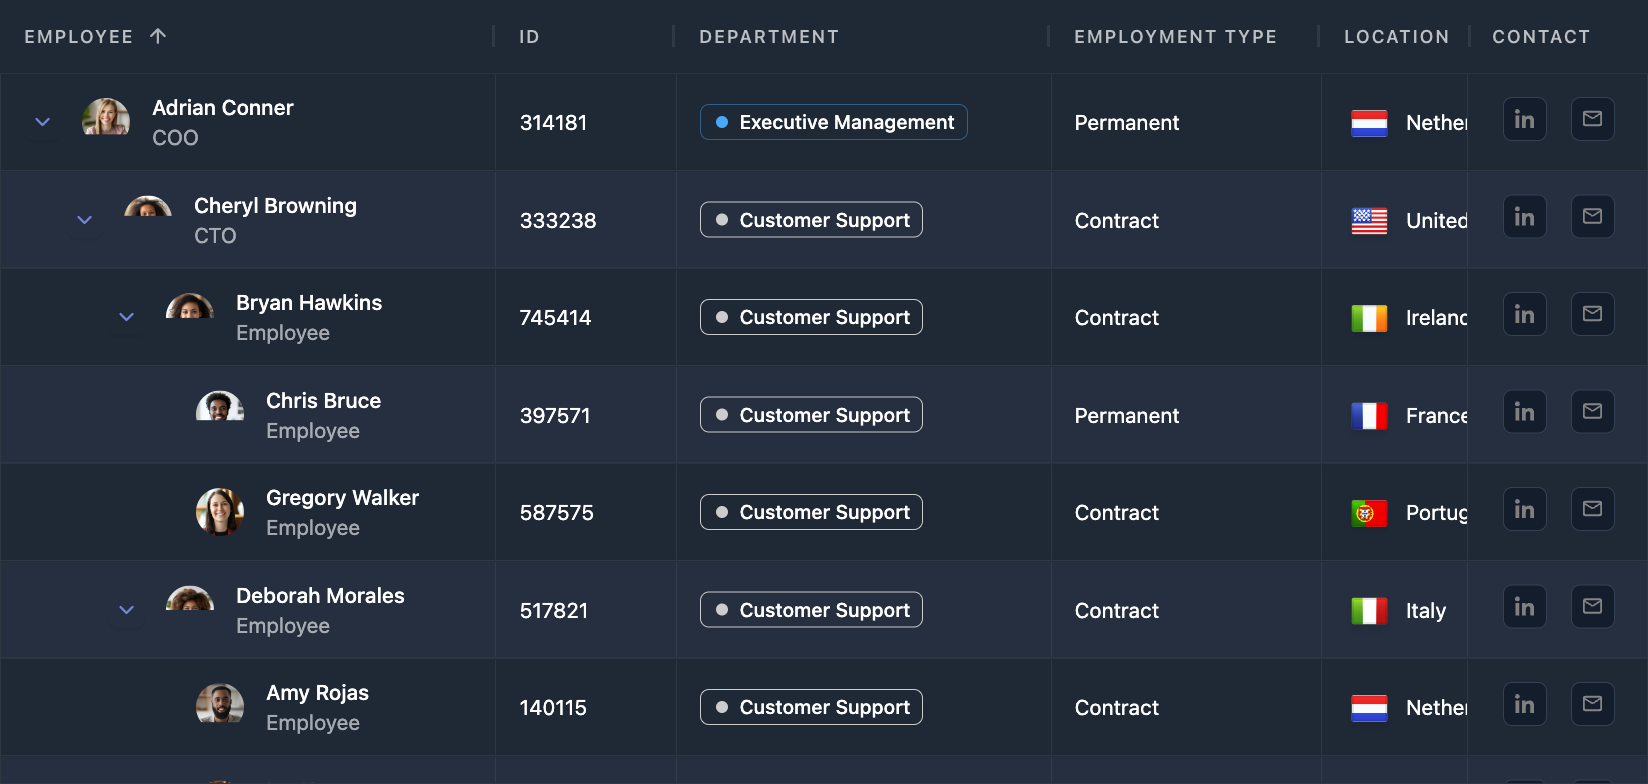
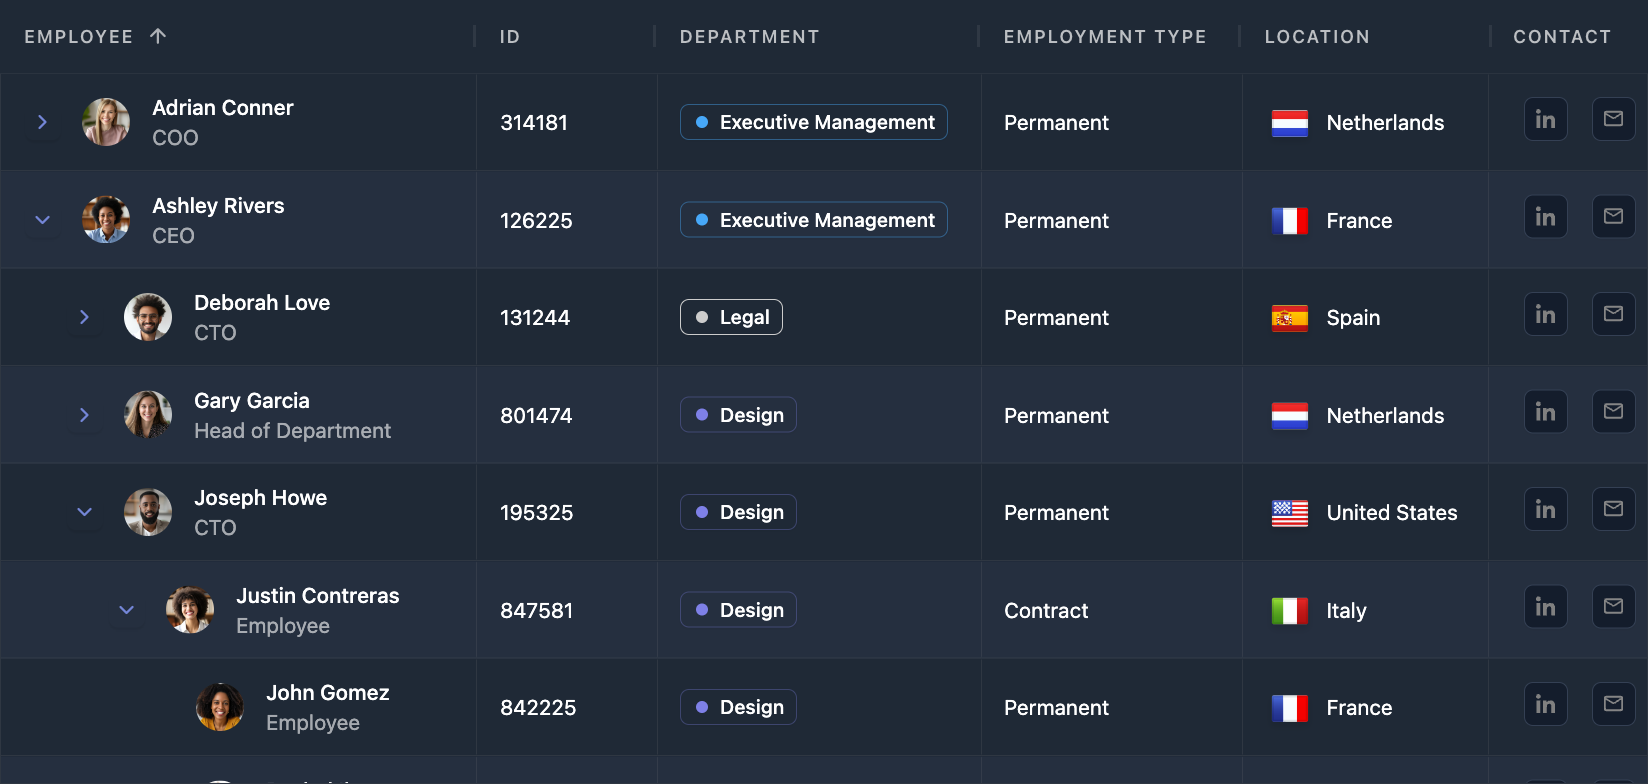
Add example gifs

diff --git a/README.md b/README.md
@@ -57,6 +57,9 @@
   - [Setup](#setup)
   - [Seed Projects](#seed-projects)
 - [🛠 Customisations](#-customisations)
+  - [Custom Components](#custom-components)
+  - [Themes](#themes)
+  - [Custom Themes](#custom-themes)
 - [🌍 Community](#-community)
   - [Tools \& Extensions](#tools--extensions)
     - [Adaptable](#adaptable)
@@ -68,8 +71,6 @@
   - [Asking Questions](#asking-questions)
   - [Contributing](#contributing)
   - [License](#license)
-- [📢 Socials](#-socials)
-- <p><img width="24" height="24" src="https://github.com/ag-grid/ag-grid/blob/latest/documentation/ag-grid-docs/public/images/ag-logos/svg-logos/AG-BrandMark_Light-Theme.svg?raw=true" alt="AG ChartsLogo"><a href="./#g-charts">AG Charts</a></p>
 
 </details>
 
@@ -115,27 +116,28 @@ AG Grid is available in two versions: Community & Enterprise.
   <summary><strong>Financial data example featuring live updates and sparklines:</strong></summary>
   <br>
   <a href="https://ag-grid.com/example-finance/">
-    <img src="./finance-demo.png" alt="Finance">
+    <img src="./finance-demo.gif" alt="Finance">
   </a>
+  <br>
   <div align="right"><span><a href="https://ag-grid.com/example-finance/">View Demo 🔗</a></span>&nbsp;&nbsp;<span><a href="https://github.com/ag-grid/ag-grid-demos/tree/main/finance">Source Code 🧑💻</a></span></div>
 </details>
-
-<details>
-  <summary>🔗 <strong>HR data example showing hierarchical employee data:</strong></summary>
-  <br>
-  <a href="https://ag-grid.com/example-hr/">
-    <img src="./hr-demo.png" alt="HR">
-  </a>
-  <div align="right"><span><a href="https://ag-grid.com/example-hr/">View Demo 🔗</a></span>&nbsp;&nbsp;<span><a href="https://github.com/ag-grid/ag-grid-demos/tree/main/hr">Source Code 🧑💻</a></span></div>
-</details>
-
+<br>
 <details>
   <summary>🔗 <strong>Inventory data example to view and manage products:</strong></summary>
   <br>
   <a href="https://ag-grid.com/example-inventory/">
-    <img src="./inventory-demo.png" alt="Inventory">
+    <img src="./inventory-demo.gif" alt="Inventory">
   </a>
   <div align="right"><span><a href="https://ag-grid.com/example-inventory/">View Demo 🔗</a></span>&nbsp;&nbsp;<span><a href="https://github.com/ag-grid/ag-grid-demos/tree/main/inventory">Source Code 🧑💻</a></span></div>
+</details>
+<br>
+<details>
+  <summary>🔗 <strong>HR data example showing hierarchical employee data:</strong></summary>
+  <br>
+  <a href="https://ag-grid.com/example-hr/">
+    <img src="./hr-demo.gif" alt="HR">
+  </a>
+  <div align="right"><span><a href="https://ag-grid.com/example-hr/">View Demo 🔗</a></span>&nbsp;&nbsp;<span><a href="https://github.com/ag-grid/ag-grid-demos/tree/main/hr">Source Code 🧑💻</a></span></div>
 </details>
 
 ## ⚡ Quick Start
